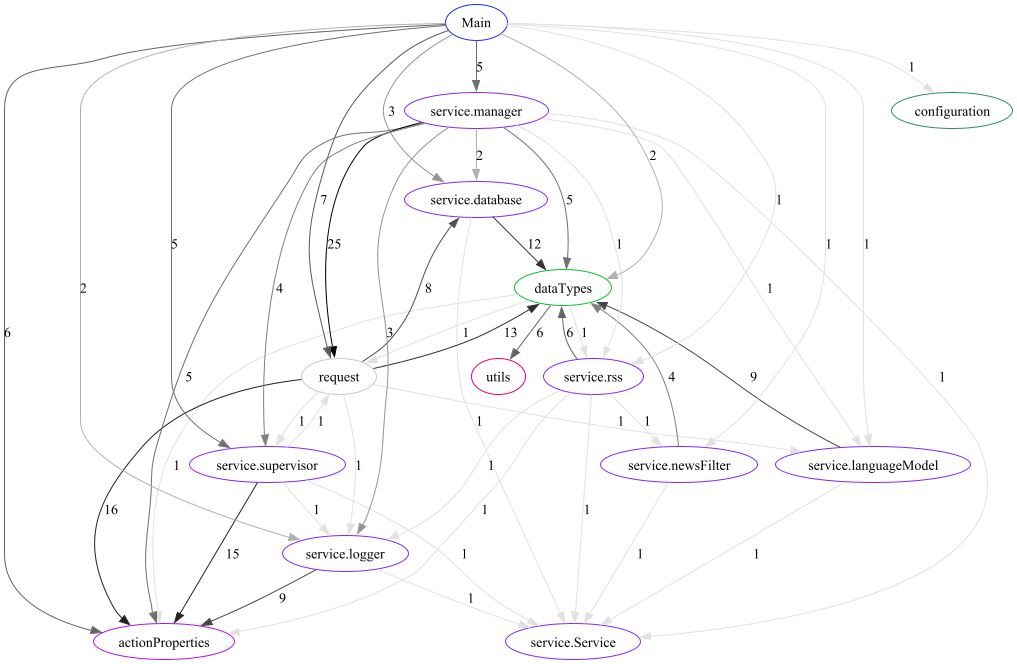
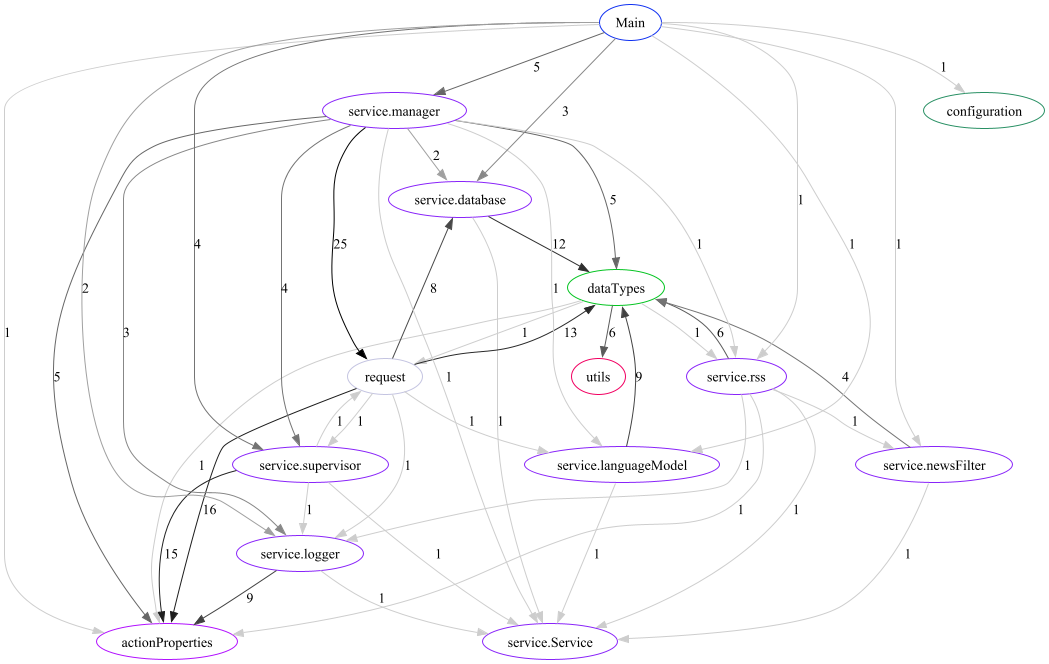
images re-rendered

diff --git a/src/main/kotlin/DrawGraph.kt b/src/main/kotlin/DrawGraph.kt
@@ -31,7 +31,7 @@ fun generateDotFile(graph: Map<String, Set<Pair<String, Int>>>, filePath: String
 
         val maxWeight = log10(edgeWeights.max().toDouble())
         val minWeight = log10(edgeWeights.min().toDouble())
-        val maxColor = 225
+        val maxColor = 205
         val minColor = 0
 
         for ((vertex, neighbors) in graph)
